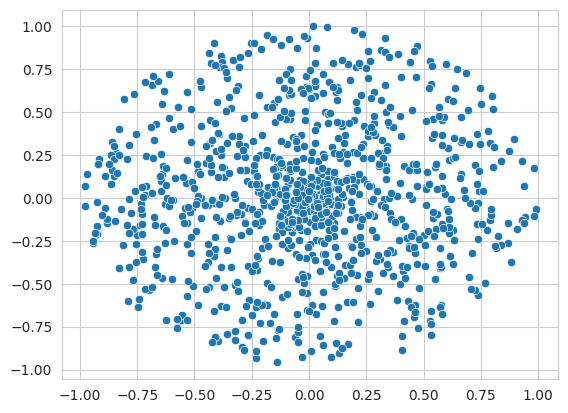
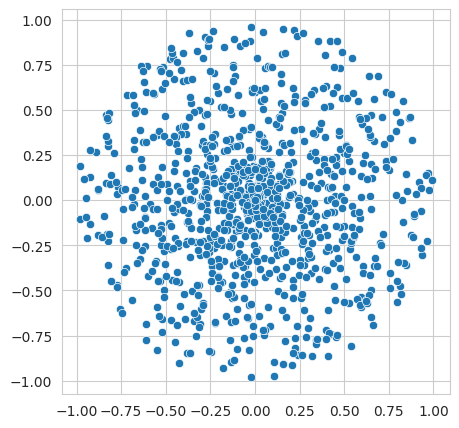
Update file

diff --git a/A. Генератор точек в круге/README.md b/A. Генератор точек в круге/README.md
@@ -37,6 +37,20 @@ def generate2():
 
 ### Решение
 
+В первом генераторе используется параметрическое уравнение круга $x\=r⋅cos(θ),y\=r⋅sin(θ)$
+
+В втором генераторе проверяется условие $ x2+y2≤1 $
+
+При визуализации наборов точек от каждого генератора видно, что в первом случае множество точек плотно расположись в центре. Во втором же случае точки располагаются равномерно.
+
+Визуализация набора точек 1-го генератора:
+ 
 ![Generator1](Generator1.png)
 
+Визуализация набора точек 2-го генератора: 
+
 ![Generator2](Generator2.png)
+
+Чтобы определить к какому генератору относится каждый набор вычислим расстояние от центра до каждой точки по формуле $\ sqrt(x^2 + y^2),$ и сравним среднее значение расстояния с 0.5
+
+
